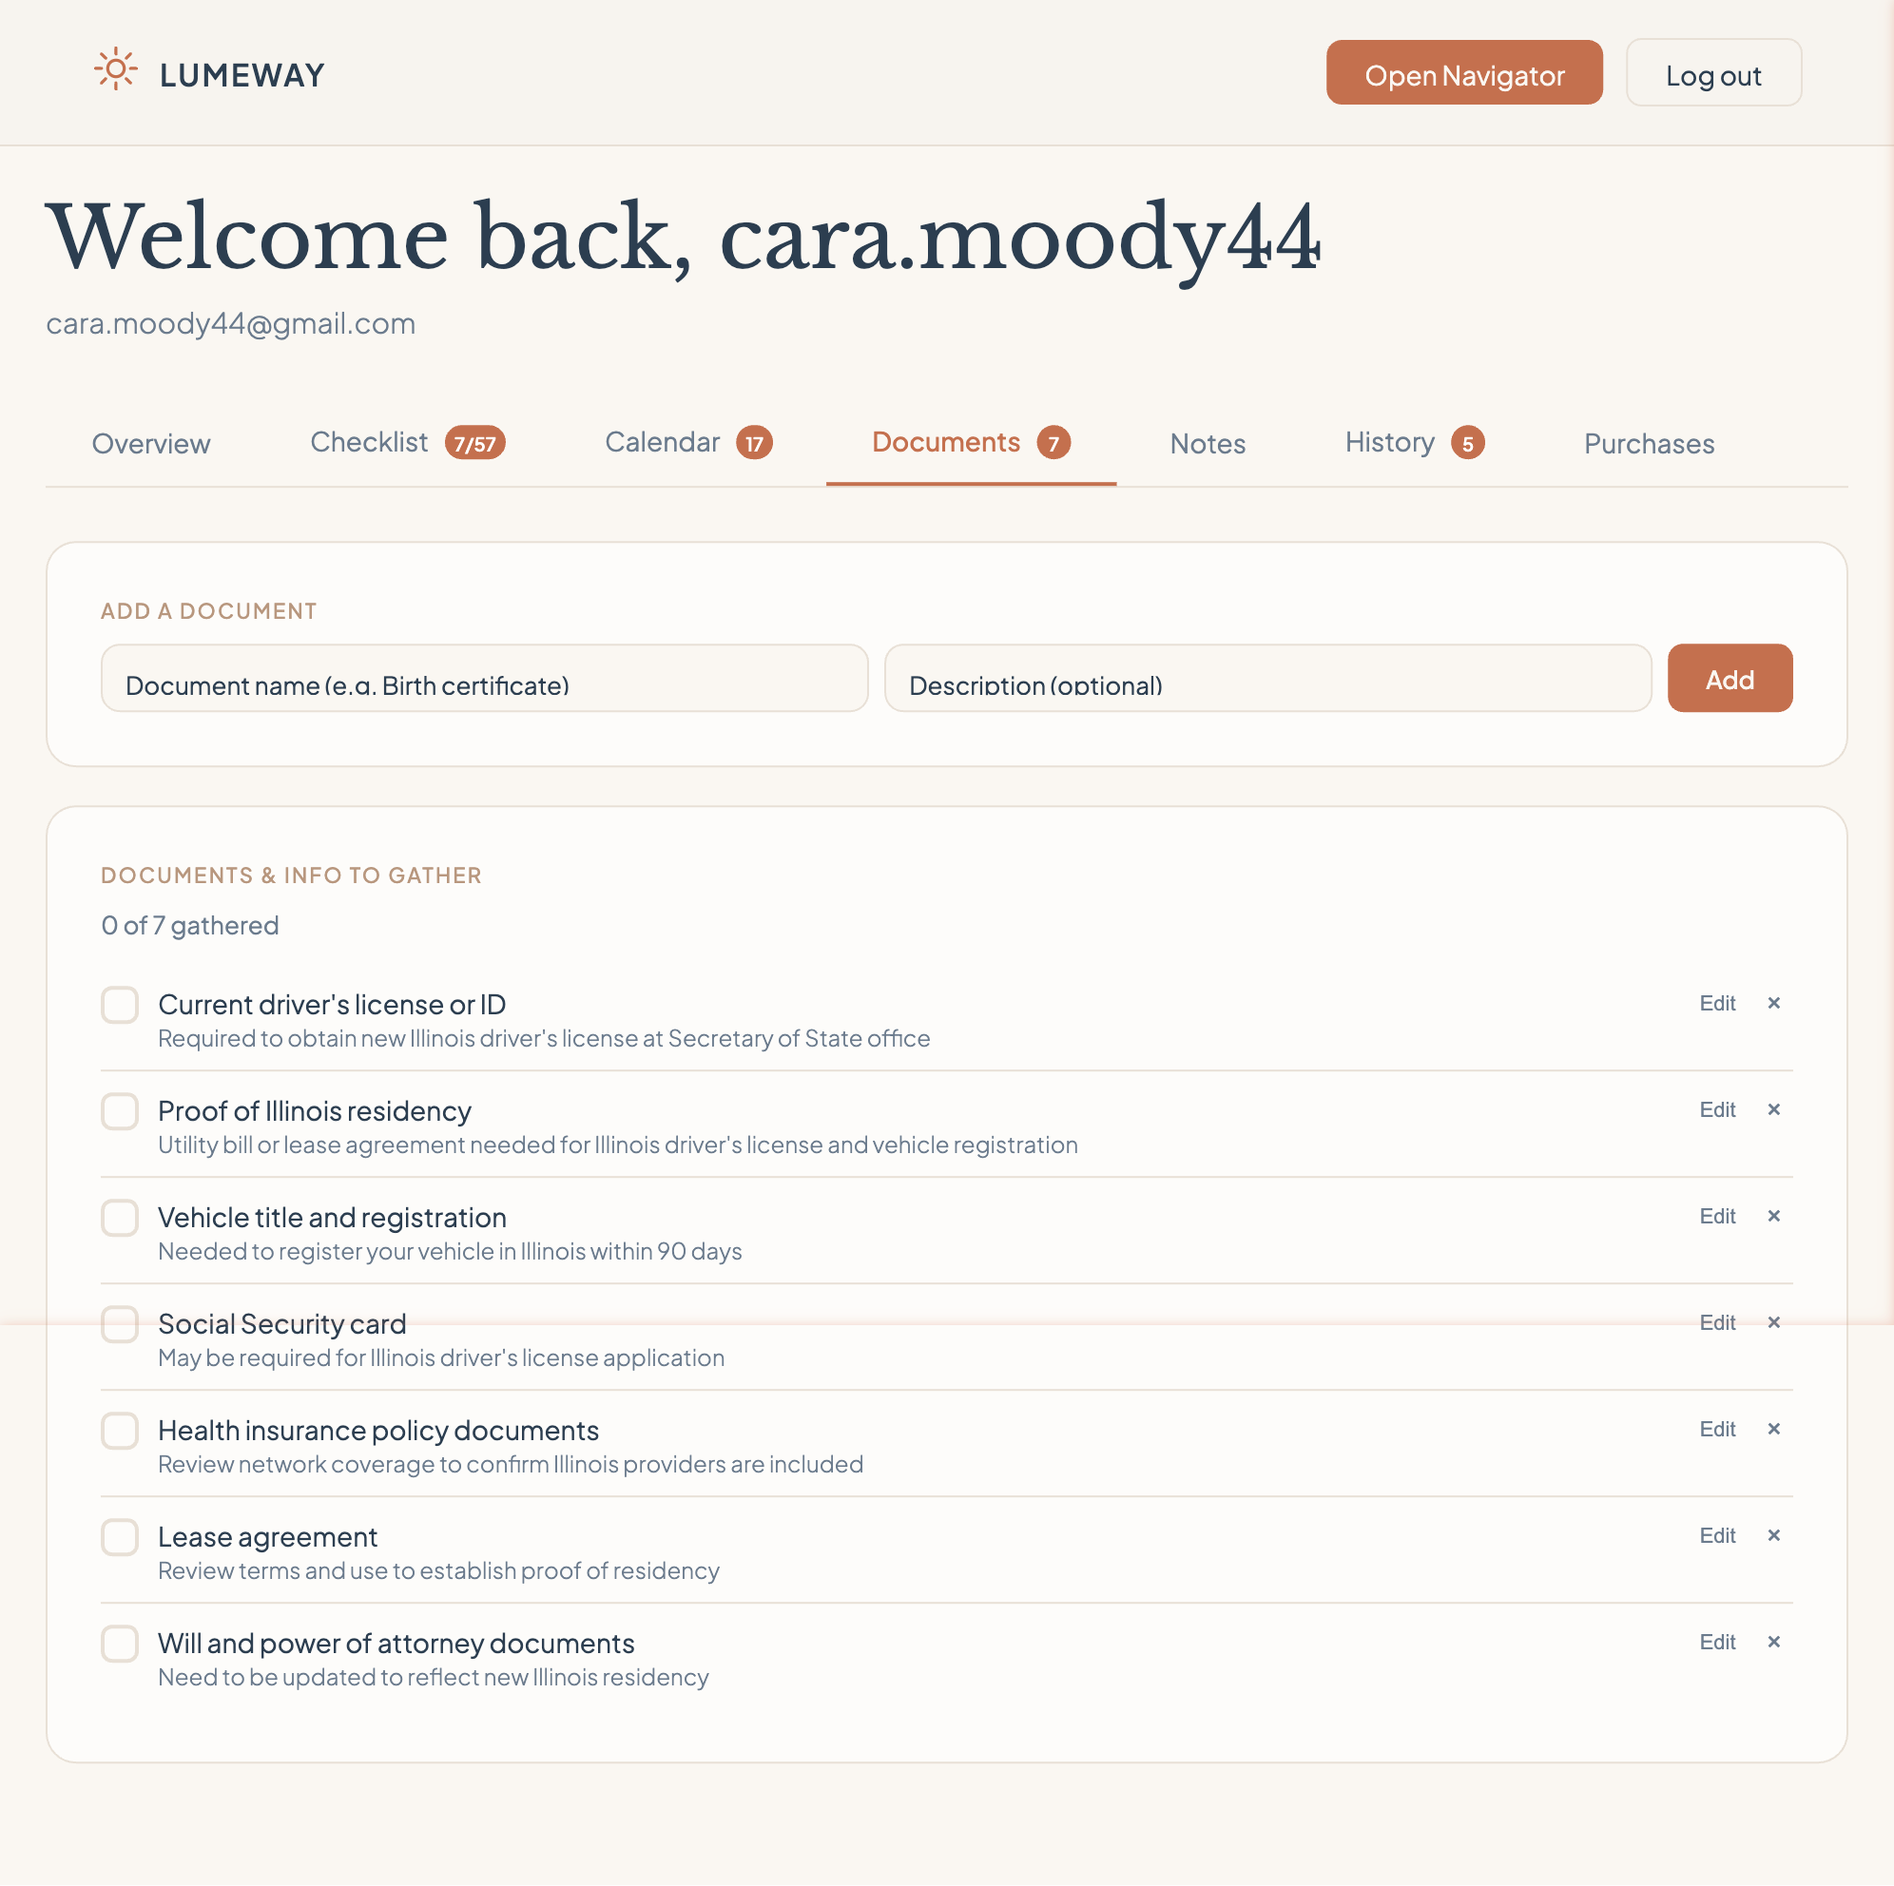
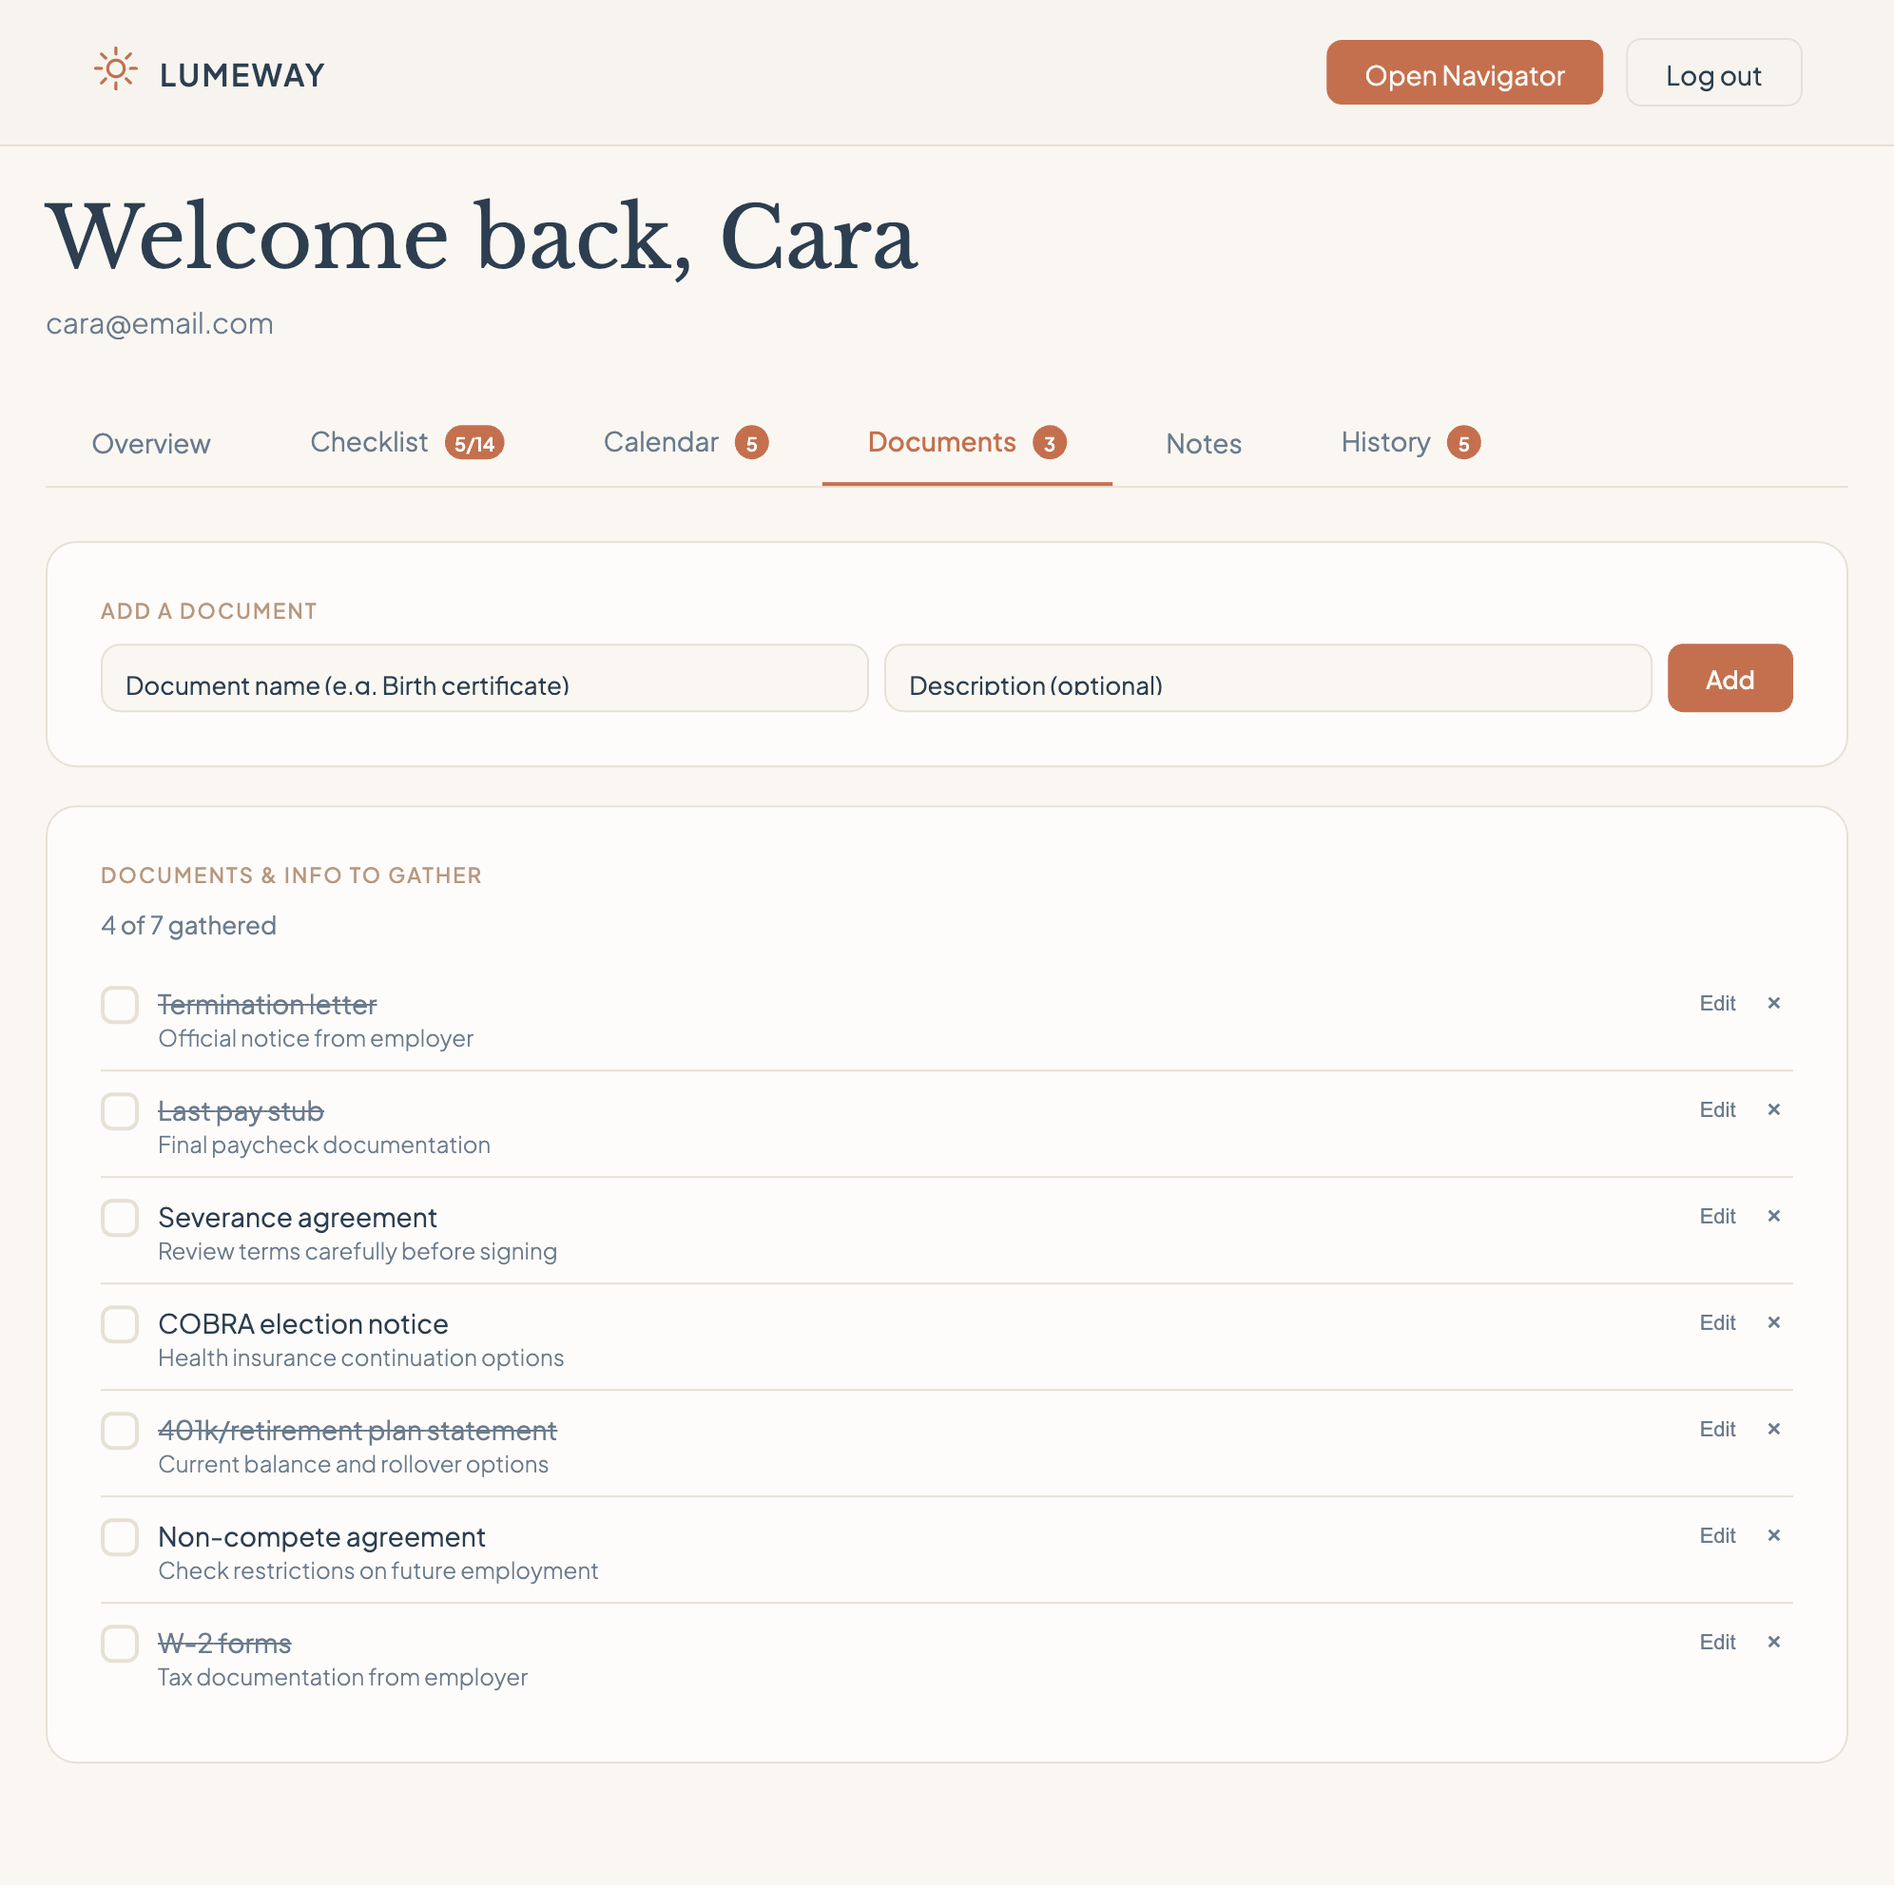
Update nav to Explore dropdown site-wide, replace dashboard screenshots with example Cara data
- All pages now have Explore dropdown (Features, Shop, FAQ, Blog, About, Contact, Privacy, Terms) + cart icon
- Dashboard screenshots replaced with example "Cara" job-loss data (no personal info)
- Remove temp save-screenshot endpoint from app.py

diff --git a/templates.html b/templates.html
@@ -144,26 +144,37 @@
         <span class="sun-icon" style="color:var(--accent)"><svg viewBox="0 0 24 24" width="26" height="26" fill="none" stroke="currentColor" stroke-width="1.5" stroke-linecap="round"><circle cx="12" cy="12" r="4"/><path d="M12 2v3M12 19v3M4.93 4.93l2.12 2.12M16.95 16.95l2.12 2.12M2 12h3M19 12h3M4.93 19.07l2.12-2.12M16.95 7.05l2.12-2.12"/></svg></span>
         <span class="nav-logo-text" style="font-family:'Plus Jakarta Sans',sans-serif;font-size:16px;font-weight:600;letter-spacing:0.08em;text-transform:uppercase;color:var(--navy)">Lumeway</span>
       </a>
-      <div class="nav-links">
-        <div class="nav-dropdown">
-          <button class="nav-drop-btn" aria-expanded="false" aria-haspopup="true">Get help with <span class="chev">▾</span></button>
-          <div class="nav-drop-menu">
-            <a href="/estate">Death &amp; Estate</a>
-            <a href="/divorce">Divorce &amp; Separation</a>
-            <a href="/job-loss">Job Loss &amp; Income Crisis</a>
-            <a href="/relocation">Moving &amp; Relocation</a>
-            <a href="/disability">Disability &amp; Benefits</a>
-            <a href="/retirement">Retirement</a>
-          </div>
+      <div class="nav-dropdown">
+        <button class="nav-drop-btn" aria-expanded="false" aria-haspopup="true">Get help with <span class="chev">▾</span></button>
+        <div class="nav-drop-menu">
+          <a href="/estate">Death &amp; Estate</a>
+          <a href="/divorce">Divorce &amp; Separation</a>
+          <a href="/job-loss">Job Loss &amp; Income Crisis</a>
+          <a href="/relocation">Moving &amp; Relocation</a>
+          <a href="/disability">Disability &amp; Benefits</a>
+          <a href="/retirement">Retirement</a>
         </div>
-        <a href="/features" class="nav-link">Features</a>
-        <a href="/templates" class="nav-link">Explore</a>
+      </div>
+      <div class="nav-dropdown">
+        <button class="nav-drop-btn" aria-expanded="false" aria-haspopup="true">Explore <span class="chev">▾</span></button>
+        <div class="nav-drop-menu">
+          <a href="/features">Features</a>
+          <a href="/templates">Shop</a>
+          <a href="/faq">FAQ</a>
+          <a href="/blog">Blog</a>
+          <div class="menu-div"></div>
+          <a href="/about">About</a>
+          <a href="/contact">Contact</a>
+          <a href="/privacy">Privacy</a>
+          <a href="/terms">Terms</a>
+        </div>
       </div>
     </div>
     <div class="nav-right">
-      <a href="/login" class="nav-link" id="navAccount">Log in</a>
+      <a href="/login" class="btn-ghost" id="navAccount">Log in</a>
       <a href="/templates" class="btn-ghost">Shop</a>
       <a href="/chat" target="_blank" class="btn-primary">Try it free</a>
+      <a href="/cart" class="btn-ghost" title="Cart" style="font-size:18px;">&#128722;</a>
     </div>
   </nav>
 

diff --git a/features.html b/features.html
@@ -328,26 +328,37 @@
         <span class="sun-icon nav-sun"><svg viewBox="0 0 24 24" width="26" height="26"><circle cx="12" cy="12" r="4"/><path d="M12 2v3M12 19v3M4.93 4.93l2.12 2.12M16.95 16.95l2.12 2.12M2 12h3M19 12h3M4.93 19.07l2.12-2.12M16.95 7.05l2.12-2.12"/></svg></span>
         <span class="nav-logo-text">Lumeway</span>
       </a>
-      <div class="nav-links">
-        <div class="nav-dropdown">
-          <button class="nav-drop-btn" aria-expanded="false" aria-haspopup="true">Get help with <span class="chev">&#9662;</span></button>
-          <div class="nav-drop-menu">
-            <a href="/estate">Death &amp; Estate</a>
-            <a href="/divorce">Divorce &amp; Separation</a>
-            <a href="/job-loss">Job Loss &amp; Income Crisis</a>
-            <a href="/relocation">Moving &amp; Relocation</a>
-            <a href="/disability">Disability &amp; Benefits</a>
-            <a href="/retirement">Retirement</a>
-          </div>
+      <div class="nav-dropdown">
+        <button class="nav-drop-btn" aria-expanded="false" aria-haspopup="true">Get help with <span class="chev">&#9662;</span></button>
+        <div class="nav-drop-menu">
+          <a href="/estate">Death &amp; Estate</a>
+          <a href="/divorce">Divorce &amp; Separation</a>
+          <a href="/job-loss">Job Loss &amp; Income Crisis</a>
+          <a href="/relocation">Moving &amp; Relocation</a>
+          <a href="/disability">Disability &amp; Benefits</a>
+          <a href="/retirement">Retirement</a>
         </div>
-        <a href="/features" class="nav-link">Features</a>
-        <a href="/templates" class="nav-link">Explore</a>
+      </div>
+      <div class="nav-dropdown">
+        <button class="nav-drop-btn" aria-expanded="false" aria-haspopup="true">Explore <span class="chev">&#9662;</span></button>
+        <div class="nav-drop-menu">
+          <a href="/features">Features</a>
+          <a href="/templates">Shop</a>
+          <a href="/faq">FAQ</a>
+          <a href="/blog">Blog</a>
+          <div class="menu-div"></div>
+          <a href="/about">About</a>
+          <a href="/contact">Contact</a>
+          <a href="/privacy">Privacy</a>
+          <a href="/terms">Terms</a>
+        </div>
       </div>
     </div>
     <div class="nav-right">
-      <a href="/login" class="nav-link" id="navAccount">Log in</a>
+      <a href="/login" class="btn-ghost" id="navAccount">Log in</a>
       <a href="/templates" class="btn-ghost">Shop</a>
       <a href="/chat" target="_blank" class="btn-primary">Try it free</a>
+      <a href="/cart" class="btn-ghost" title="Cart" style="font-size:18px;">&#128722;</a>
     </div>
     <button class="hamburger" onclick="document.getElementById('mobileMenu').classList.add('open')" aria-label="Menu">
       <span></span><span></span><span></span>

diff --git a/cart.html b/cart.html
@@ -122,26 +122,37 @@
         <span class="sun-icon" style="color:var(--accent)"><svg viewBox="0 0 24 24" width="26" height="26" fill="none" stroke="currentColor" stroke-width="1.5" stroke-linecap="round"><circle cx="12" cy="12" r="4"/><path d="M12 2v3M12 19v3M4.93 4.93l2.12 2.12M16.95 16.95l2.12 2.12M2 12h3M19 12h3M4.93 19.07l2.12-2.12M16.95 7.05l2.12-2.12"/></svg></span>
         <span class="nav-logo-text">Lumeway</span>
       </a>
-      <div class="nav-links">
-        <div class="nav-dropdown">
-          <button class="nav-drop-btn" aria-expanded="false" aria-haspopup="true">Get help with <span class="chev">&#9662;</span></button>
-          <div class="nav-drop-menu">
-            <a href="/estate">Death &amp; Estate</a>
-            <a href="/divorce">Divorce &amp; Separation</a>
-            <a href="/job-loss">Job Loss &amp; Income Crisis</a>
-            <a href="/relocation">Moving &amp; Relocation</a>
-            <a href="/disability">Disability &amp; Benefits</a>
-            <a href="/retirement">Retirement</a>
-          </div>
+      <div class="nav-dropdown">
+        <button class="nav-drop-btn" aria-expanded="false" aria-haspopup="true">Get help with <span class="chev">&#9662;</span></button>
+        <div class="nav-drop-menu">
+          <a href="/estate">Death &amp; Estate</a>
+          <a href="/divorce">Divorce &amp; Separation</a>
+          <a href="/job-loss">Job Loss &amp; Income Crisis</a>
+          <a href="/relocation">Moving &amp; Relocation</a>
+          <a href="/disability">Disability &amp; Benefits</a>
+          <a href="/retirement">Retirement</a>
         </div>
-        <a href="/features" class="nav-link">Features</a>
-        <a href="/templates" class="nav-link">Explore</a>
+      </div>
+      <div class="nav-dropdown">
+        <button class="nav-drop-btn" aria-expanded="false" aria-haspopup="true">Explore <span class="chev">&#9662;</span></button>
+        <div class="nav-drop-menu">
+          <a href="/features">Features</a>
+          <a href="/templates">Shop</a>
+          <a href="/faq">FAQ</a>
+          <a href="/blog">Blog</a>
+          <div class="menu-div"></div>
+          <a href="/about">About</a>
+          <a href="/contact">Contact</a>
+          <a href="/privacy">Privacy</a>
+          <a href="/terms">Terms</a>
+        </div>
       </div>
     </div>
     <div class="nav-right">
-      <a href="/login" class="nav-link" id="navAccount">Log in</a>
+      <a href="/login" class="btn-ghost" id="navAccount">Log in</a>
       <a href="/templates" class="btn-ghost">Shop</a>
       <a href="/chat" target="_blank" class="btn-primary">Try it free</a>
+      <a href="/cart" class="btn-ghost" title="Cart" style="font-size:18px;">&#128722;</a>
     </div>
   </nav>
 

diff --git a/individual-templates.html b/individual-templates.html
@@ -102,26 +102,37 @@
         <span class="sun-icon" style="color:var(--accent)"><svg viewBox="0 0 24 24" width="26" height="26" fill="none" stroke="currentColor" stroke-width="1.5" stroke-linecap="round"><circle cx="12" cy="12" r="4"/><path d="M12 2v3M12 19v3M4.93 4.93l2.12 2.12M16.95 16.95l2.12 2.12M2 12h3M19 12h3M4.93 19.07l2.12-2.12M16.95 7.05l2.12-2.12"/></svg></span>
         <span class="nav-logo-text">Lumeway</span>
       </a>
-      <div class="nav-links">
-        <div class="nav-dropdown">
-          <button class="nav-drop-btn" aria-expanded="false" aria-haspopup="true">Get help with <span class="chev">&#9662;</span></button>
-          <div class="nav-drop-menu">
-            <a href="/estate">Death &amp; Estate</a>
-            <a href="/divorce">Divorce &amp; Separation</a>
-            <a href="/job-loss">Job Loss &amp; Income Crisis</a>
-            <a href="/relocation">Moving &amp; Relocation</a>
-            <a href="/disability">Disability &amp; Benefits</a>
-            <a href="/retirement">Retirement</a>
-          </div>
+      <div class="nav-dropdown">
+        <button class="nav-drop-btn" aria-expanded="false" aria-haspopup="true">Get help with <span class="chev">&#9662;</span></button>
+        <div class="nav-drop-menu">
+          <a href="/estate">Death &amp; Estate</a>
+          <a href="/divorce">Divorce &amp; Separation</a>
+          <a href="/job-loss">Job Loss &amp; Income Crisis</a>
+          <a href="/relocation">Moving &amp; Relocation</a>
+          <a href="/disability">Disability &amp; Benefits</a>
+          <a href="/retirement">Retirement</a>
         </div>
-        <a href="/features" class="nav-link">Features</a>
-        <a href="/templates" class="nav-link">Explore</a>
+      </div>
+      <div class="nav-dropdown">
+        <button class="nav-drop-btn" aria-expanded="false" aria-haspopup="true">Explore <span class="chev">&#9662;</span></button>
+        <div class="nav-drop-menu">
+          <a href="/features">Features</a>
+          <a href="/templates">Shop</a>
+          <a href="/faq">FAQ</a>
+          <a href="/blog">Blog</a>
+          <div class="menu-div"></div>
+          <a href="/about">About</a>
+          <a href="/contact">Contact</a>
+          <a href="/privacy">Privacy</a>
+          <a href="/terms">Terms</a>
+        </div>
       </div>
     </div>
     <div class="nav-right">
-      <a href="/login" class="nav-link" id="navAccount">Log in</a>
+      <a href="/login" class="btn-ghost" id="navAccount">Log in</a>
       <a href="/templates" class="btn-ghost">Shop</a>
       <a href="/chat" target="_blank" class="btn-primary">Try it free</a>
+      <a href="/cart" class="btn-ghost" title="Cart" style="font-size:18px;">&#128722;</a>
     </div>
   </nav>
 

diff --git a/landing.html b/landing.html
@@ -680,14 +680,27 @@
             <a href="/retirement">Retirement</a>
           </div>
         </div>
-        <a href="/features" class="nav-link">Features</a>
-        <a href="/templates" class="nav-link">Explore</a>
+        <div class="nav-dropdown">
+          <button class="nav-drop-btn" aria-expanded="false" aria-haspopup="true">Explore <span class="chev">&#9662;</span></button>
+          <div class="nav-drop-menu">
+            <a href="/features">Features</a>
+            <a href="/templates">Shop</a>
+            <a href="/faq">FAQ</a>
+            <a href="/blog">Blog</a>
+            <div class="menu-div"></div>
+            <a href="/about">About</a>
+            <a href="/contact">Contact</a>
+            <a href="/privacy">Privacy</a>
+            <a href="/terms">Terms</a>
+          </div>
+        </div>
       </div>
     </div>
     <div class="nav-right">
       <a href="/login" class="nav-link" id="navAccount">Log in</a>
       <a href="/templates" class="btn-ghost">Shop</a>
       <a href="/chat" target="_blank" class="btn-primary">Try it free</a>
+      <a href="/cart" class="nav-link" title="Cart" style="font-size:18px;">&#128722;</a>
     </div>
     <button class="hamburger" onclick="document.getElementById('mobileMenu').classList.add('open')" aria-label="Menu">
       <span></span><span></span><span></span>
